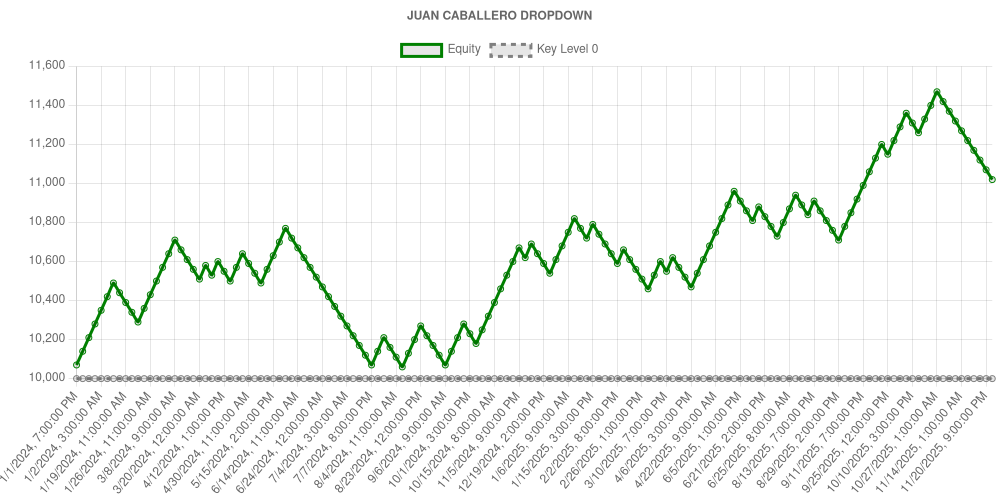
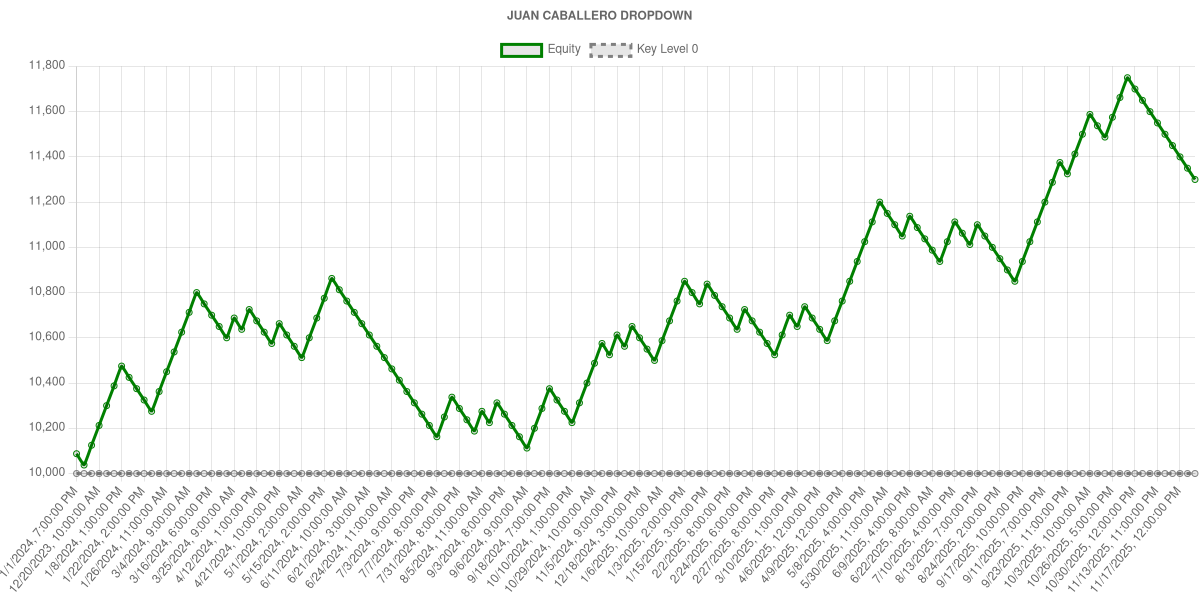
update

diff --git a/backend/service-backtest/src/index.ts b/backend/service-backtest/src/index.ts
@@ -213,8 +213,8 @@ export class Backtester {
     console.log("Average PnL per trade:", averagePnl.toFixed(2), "USD");
     console.log("=============================");
 
-    const width = 1000;
-    const height = 500;
+    const width = 1200;
+    const height = 600;
     const chartJSNodeCanvas = new ChartJSNodeCanvas({
       width,
       height,
@@ -267,7 +267,7 @@ export class Backtester {
     const riskUsd = (accountSize * riskPct) / 100;
 
     const tp_pct = 7;
-    const sl_pct = 5;
+    const sl_pct = 4;
     const tp_decimal = tp_pct / 100;
     const sl_decimal = sl_pct / 100;
 
